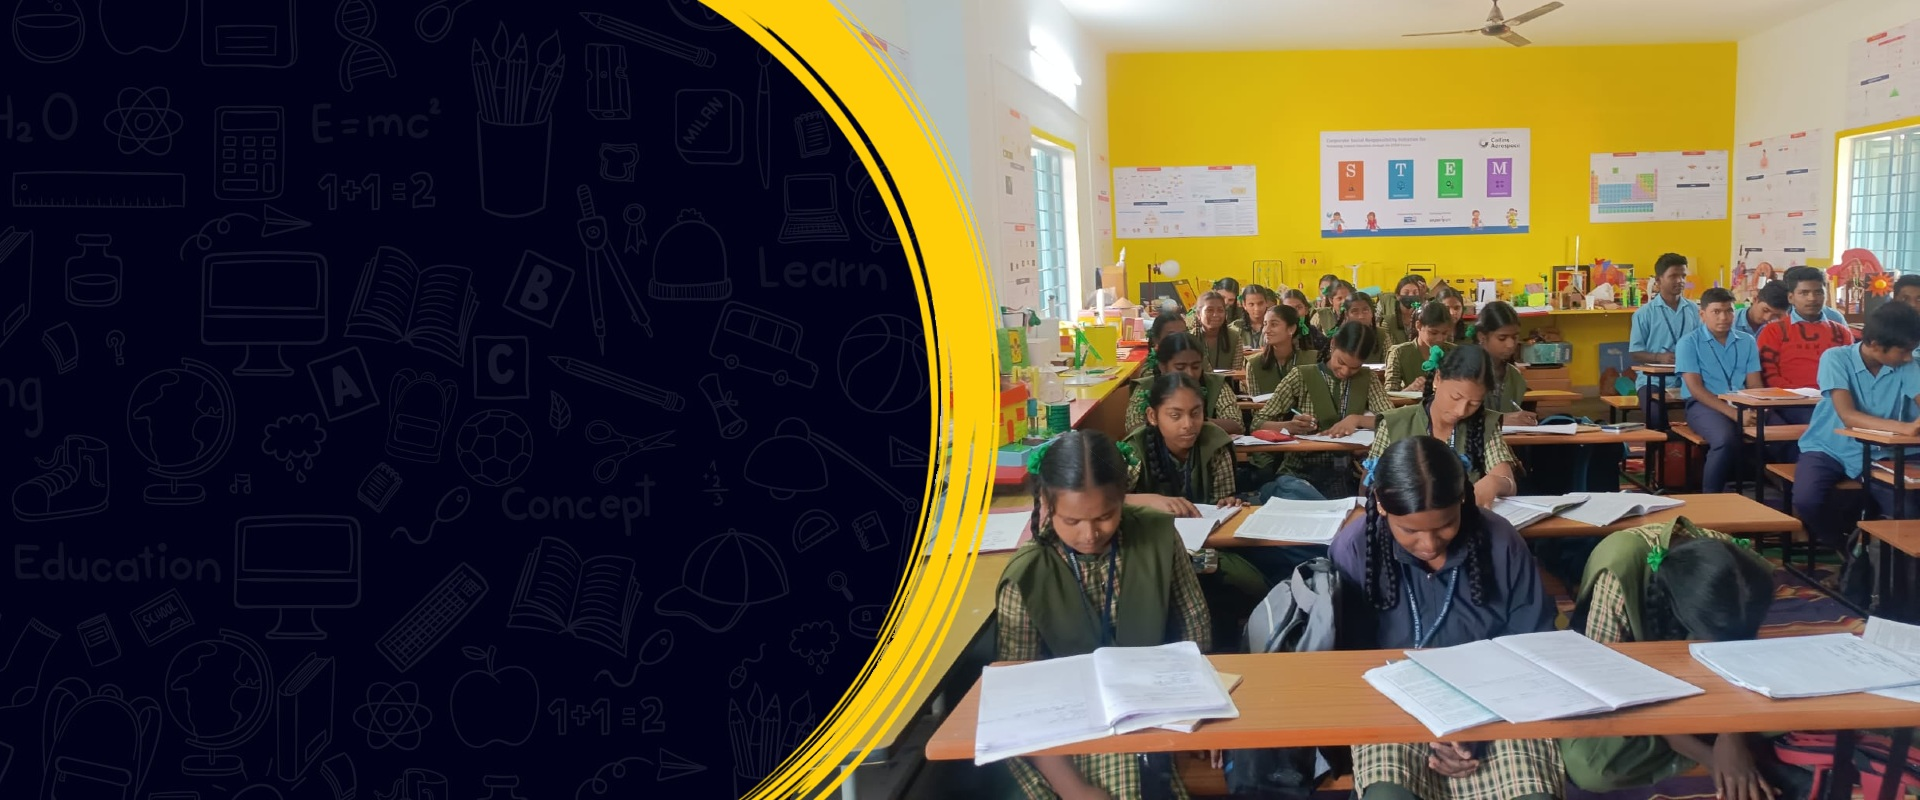
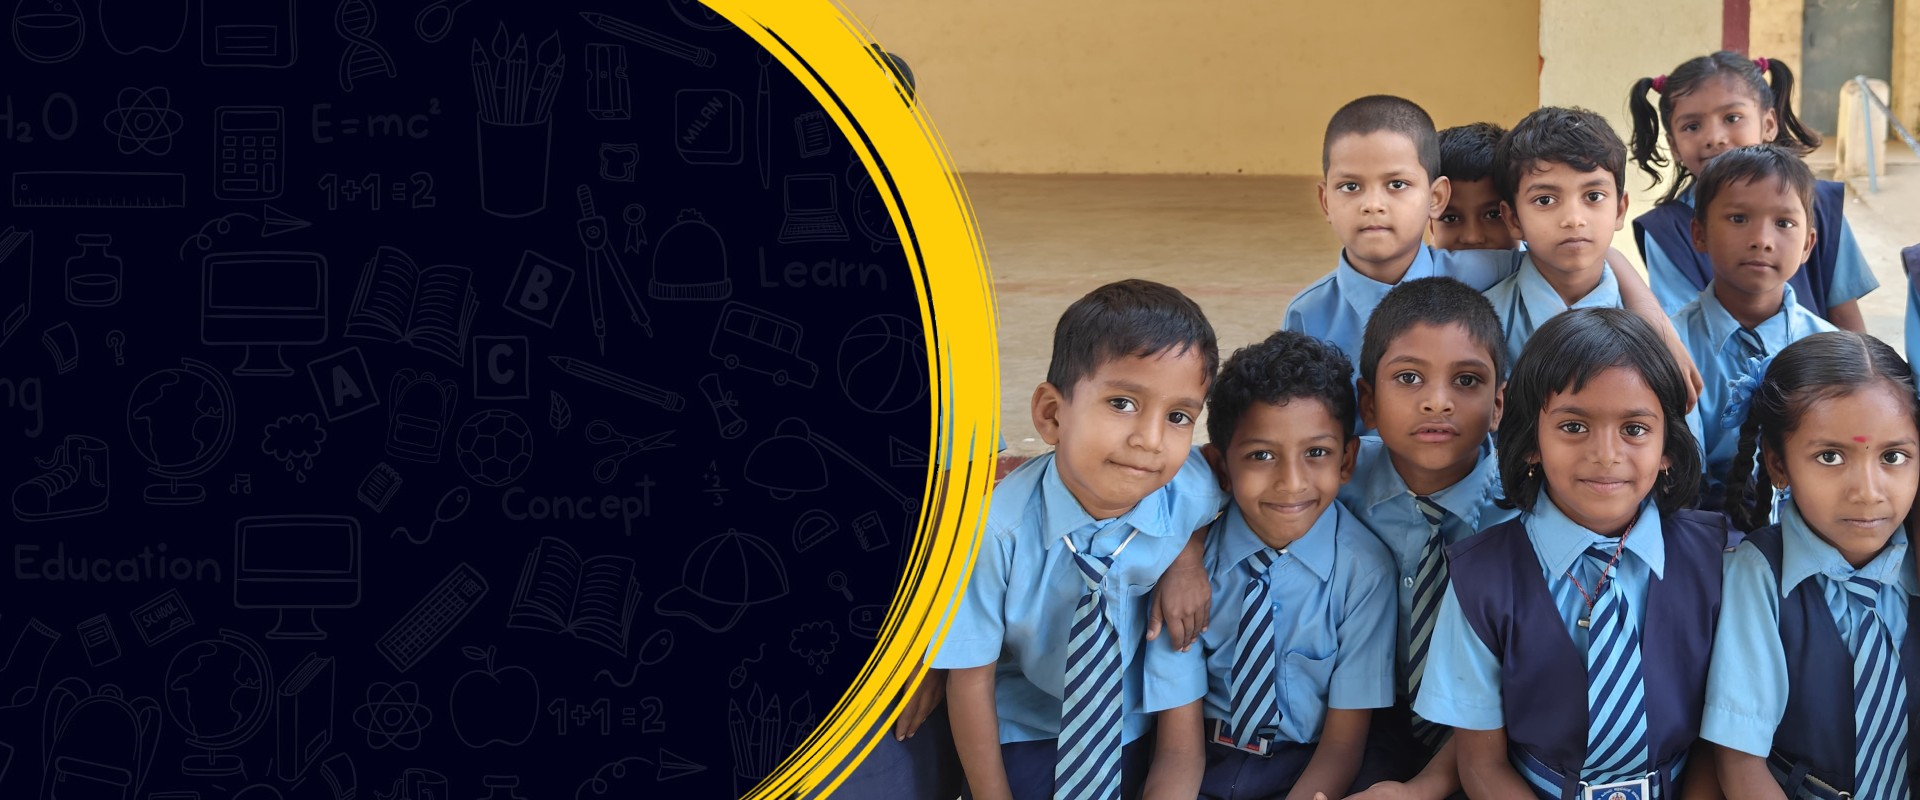
major changes in design

diff --git a/index.html b/index.html
@@ -19,7 +19,7 @@
           <img class="d-block w-100" id="first-slide" alt="First slide">
         <div class="custom-caption">
           <h1>WELCOME TO <br>
-            GOVT, INSTITUTIONS<br> 
+            GOVT. INSTITUTIONS<br> 
             RAJANKUNTE</h1>
           <p>Educating For Tommorow</p>
           <a href="aboutus.html">   
@@ -63,7 +63,6 @@
       <p><span class="offset-md-3"> Goal is to make learning enjoyable and empowering. With caring teachers and a variety of subjects, we want to help students gain knowledge, skills, and good values. Our school is all about getting ready for a successful future!
 
         At our school, we foster a holistic learning environment, promoting creativity and critical thinking. Extracurricular activities, sports, and community engagement enrich students' experiences, instilling a sense of responsibility and teamwork. Our commitment extends beyond academics to character development, nurturing well-rounded individuals poised for success in a dynamic world. We prioritize creating a supportive community where every student can thrive and develop into confident, compassionate, and capable individuals.</span></p>
-      <a href="aboutus.html" class="btn">Learn More</a>
     </div>
     <div class="col-md-6">
       <!-- Image Collage for larger screens -->
@@ -71,13 +70,13 @@
         <!-- Photos and descriptions for Primary School -->
         <!-- Add your photo URLs and descriptions here -->
         <div class="col-md-6 img-fluid photo-card"  >
-          <a href="images/IMG-20240125-WA0129.jpg" data-fancybox="gallery" >
+          <a href="images/pic3.jpg" data-fancybox="gallery" >
             <img  id="photo-card1" alt="Photo 1">
           </a>
           
         </div>
         <div class="col-md-6 img-fluid photo-card" >
-          <a href="images/IMG-20240125-WA0156.jpg" data-fancybox="gallery" >
+          <a href="images/pic4.jpg" data-fancybox="gallery" >
             <img  id="photo-card2" alt="Photo 2">
           </a>
         
@@ -94,18 +93,16 @@
           </a>
         
         </div>
-        
-          <!-- <div class="photo-description">Description 2</div> -->
         </div>
-        <!-- Add more photo cards as needed -->
       </div>
     </div>
+    <a href="aboutus.html" class="btn button">Learn More</a>
       <!-- End Image Collage -->
     </div>
   </div>
 </section>
 
-
+<hr>
 
 <section>
 
@@ -134,20 +131,20 @@
             </div>
             
             <div class="col-md-6" style="margin-bottom: 50px;">
-              <div id="CLASS" class="content" >
-                      <img src="images/facilities/classroom.jpg"  alt="Overview">  
+              <div id="CLASS" class="home_fac" >
+                      <img src="images/pic2.jpg"  alt="Overview">  
                </div>
 
-                <div id="SWIMMING" class="content" style="display: none;">
+                <div id="SWIMMING" class="home_fac" style="display: none;">
                         <img src="images/facilities/swimmingpool.jpg"  alt="Overview">
                         </div>
-                <div id="FOOD" class="content" style="display: none;">
+                <div id="FOOD" class="home_fac" style="display: none;">
                         <img src="images/facilities/food.jpg"  alt="Overview">
                         </div>
-                <div id="BADMINTON" class="content" style="display: none;">
+                <div id="BADMINTON" class="home_fac" style="display: none;">
                         <img src="images/facilities/badminton_court.jpg"  alt="Overview">
                         </div>
-                <div id="PARK" class="content" style="display: none;">
+                <div id="PARK" class="home_fac" style="display: none;">
                         <img src="images/facilities/park.jpg"  alt="Overview">
                         </div>
                         
@@ -206,8 +203,8 @@
   document.querySelectorAll('.btn_grp .btn').forEach(function(button) {
     button.addEventListener('click', function() {
         // Hide all content divs
-        document.querySelectorAll('.content').forEach(function(content) {
-            content.style.display = 'none';
+        document.querySelectorAll('.home_fac').forEach(function(home_fac) {
+            home_fac.style.display = 'none';
         });
 
         // Show the content div that corresponds to the clicked button

diff --git a/css/style.css b/css/style.css
@@ -116,9 +116,11 @@ h2, h3, h4, h5, h6 {
 @media (max-width: 768px){
   .button {
     padding: 0 25px;
+    margin-bottom: 15px;
     font-size: 14px;
     line-height: 35px;
     background-color: #ffc600;
+    margin-top: 15px;
   }
 }
 
@@ -685,6 +687,7 @@ footer li {
 /* contact us page css end  */
 
 /* alumni page css starts  */
+#admission-form,
 #alumni-form {
   display: flex;
   justify-content: space-between;
@@ -692,6 +695,13 @@ footer li {
   font-weight: 500;
 }
 
+#admission-form{
+  flex: 1;
+  margin: 5px;
+  padding: 20px;
+  /* background-color: #f8f8f8; */
+  border-radius: 5px;
+}
 #alumni-form {
   flex: 1;
   margin: 5px;
@@ -700,10 +710,14 @@ footer li {
   border-radius: 5px;
 }
 
+#admission-form textarea,
 #alumni-form textarea {
   height: 40px;
 }
 
+#admission-form input[type="text"],
+#admission-form input[type="email"],
+#admission-form textarea,
 #alumni-form input[type="text"],
 #alumni-form input[type="email"],
 #alumni-form textarea {
@@ -718,7 +732,9 @@ footer li {
 }
 
 #alumni-form input[type="text"]:focus,
+#admission-form input[type="text"]:focus,
 #alumni-form input[type="email"]:focus,
+#admission-form input[type="email"]:focus,
 #alumni-form textarea:focus {
   border: 1px solid #ddd;
   border-radius: 3px;
@@ -735,7 +751,8 @@ footer li {
   font-size: 16px;
 } */
 
-#alumni-form input[type="submit"] {
+#alumni-form input[type="submit"],
+#admission-form input[type="submit"] {
   display: inline-block;
   font-weight: 500;
   text-align: center;
@@ -763,11 +780,9 @@ footer li {
 }
 
 @media (max-width: 600px) {
+  #admission-form,
   #alumni-form{
     flex-direction: column;
-  }
-
-  #alumni-form {
     order: 2;
   }
 }
@@ -785,11 +800,10 @@ footer li {
 }
 
 .photo-card img {
-  width: 100%; /* This will make the image take the full width of its parent element */
-  height: 200px; /* Adjust this value to suit your needs */
+  width: 100%; 
+  height: 200px; 
   object-fit: cover;
   padding: 5px;
-   /* This will crop the image to fit the dimensions without distorting it */
 }
 
 
@@ -799,21 +813,18 @@ footer li {
 }
 
 .photo-card img {
-  transition: transform 0.3s ease-in-out; /* This will animate the transform property */
+  transition: transform 0.3s ease-in-out;
 }
 
 .photo-card img:hover {
-  transform: scale(1.1); /* This will scale the image up to 110% */
+  transform: scale(1.1);
 }
 
 
 .card_academics {
-  /* box-shadow: 0 4px 8px 0 rgba(0,0,0,0.2); */
   transition: 0.3s;
-  /* border-radius: 5px; */
   padding: 20px;
   background-color: #f8f8f8;
- 
 }
 
 .card_academics .btn_grp {
@@ -836,12 +847,11 @@ footer li {
 }
 
 
-.content img {
-  width: 100%; /* This will make the image take the full width of its parent element */
-  height: 314px; /* Adjust this value to suit your needs */
+.home_fac img {
+  width: 100%;
+  height: 314px; 
   object-fit: cover;
   padding: 5px;
-   /* This will crop the image to fit the dimensions without distorting it */
 }
 
 .abt-viewMore .viewMore_btn {

diff --git a/admission.html b/admission.html
@@ -42,12 +42,12 @@
                             <h2>Download Fees Structure</h2>
                             <hr>
                             <p>
-                                <a href="files\HighschoolTT.pdf" download class="btn btn-primary">
+                                <a href="images/fees structure/school.jpg" download class="btn btn-primary">
                                     <i class="fas fa-file-download"></i> School Fees Structure
                                 </a>
                             </p>
                             <p>
-                                <a href="files\pucTT.pdf" download class="btn btn-primary">
+                                <a href="images/fees structure/puc.png" download class="btn btn-primary">
                                     <i class="fas fa-file-download"></i> PU College Fees Structure
                                 </a>
                             </p>
@@ -56,9 +56,9 @@
                     <div id="ADMISSION" class="content" style="display: none;">
                         <h2 class="card-body_title">ADMISSION ENQUIRY</h2>
                         <div class="container">
-                            <div id="alumni-form">
-                              <form id="alumniForm" class="row g-3" onsubmit="submitForm(event, 'alumniForm')">
-                                <input type="hidden" name="formId" value="alumniForm">
+                            <div id="admission-form">
+                              <form id="admissionForm" class="row g-3" onsubmit="submitForm(event, 'admissionForm')">
+                                <input type="hidden" name="formId" value="admissionForm">
                                 <div class="col-md-6">
                                   <input type="text" id="name" name="name" class="form-control" placeholder="Enter Name *" required>
                                 </div>

diff --git a/contact.html b/contact.html
@@ -25,7 +25,7 @@
         <input type="submit" value="Submit">
       </form>
       
-      <div id="contactSubmissionMessage" style="display: none; color: green;">Contact Form submitted successfully!</div>
+      <div id="contactSubmissionMessage" style="display: none; margin-top: 4 5px; color: green;"><i>Contact Form submitted successfully!</i></div>
 
     </div>
   </div>
@@ -64,5 +64,30 @@
   <!-- main.jss -->
   <script src="main.js"></script>
   <script src="https://cdn.jsdelivr.net/npm/@popperjs/core@2.5.4/dist/umd/popper.min.js"></script>
+
+  <!-- extra JS  -->
+<script>
+  document.getElementById('contactForm').addEventListener('submit', function(event) {
+    event.preventDefault(); // prevent the form from submitting normally
+
+    // submit the form using Fetch API
+    fetch(this.action, {
+        method: this.method,
+        body: new FormData(this),
+    })
+    .then(response => response.json()) // parse the JSON response from the server
+    .then(data => {
+        if (data.result === 'success') {
+            // if the server returned a success result, display the custom message
+            document.getElementById('contactSubmissionMessage').style.display = 'block';
+        } else {
+            console.error('Form submission failed:', data);
+        }
+    })
+    .catch(error => {
+        console.error('Form submission failed:', error);
+    });
+});
+</script>
 </body>
 </html>

diff --git a/navbar.html b/navbar.html
@@ -32,7 +32,7 @@
 
 
   <!-- Main Nav -->
-  <nav class="navbar navbar-expand-lg navbar-light bg-light main-navbar" id="main-navbar">
+  <nav class="navbar navbar-expand-md navbar-light bg-light main-navbar" id="main-navbar">
     <button class="navbar-toggler" type="button" data-toggle="collapse" data-target="#navbarNav" aria-controls="navbarNav" aria-expanded="false" aria-label="Toggle navigation">
       <span class="navbar-toggler-icon"></span>
     </button>
@@ -52,6 +52,9 @@
             <a class="dropdown-item" href="aboutus.html#chairperson" onclick="simulateButtonClick('chairperson')">About Chairperson</a>
             <a class="dropdown-item" href="aboutus.html#principles" onclick="simulateButtonClick('principles')">Principles</a>
           </div>
+        </li>
+        <li class="nav-item active">
+          <a class="nav-link" href="facilities.html">Facilities</a>
         </li>
         <li class="nav-item active">
           <a class="nav-link" href="admission.html">Admission</a>

diff --git a/js/common.js b/js/common.js
@@ -15,8 +15,8 @@ setImageSource('fourth-slide', 'images/slide show/slide4.jpg')
 // Home Page images
 
 
-setImageSource('photo-card1','images/IMG-20240125-WA0129.jpg')
-setImageSource('photo-card2','images/IMG-20240125-WA0156.jpg')
+setImageSource('photo-card1','images/pic3.jpg')
+setImageSource('photo-card2','images/pic4.jpg')
 setImageSource('photo-card3','images/IMG-20240125-WA0164.jpg')
 setImageSource('photo-card4','images/IMG-20240125-WA0119.jpg')
 
@@ -56,6 +56,3 @@ setImageSource('badminton_court','images/facilities/badminton_court.jpg')
 setImageSource('food','images/facilities/food.jpg')
 setImageSource('auditorium','images/facilities/auditorium.jpg')
 setImageSource('park','images/facilities/park.jpg')
-
-
-

diff --git a/css/about.css b/css/about.css
@@ -105,6 +105,9 @@
     transform: translate(-50%, -50%);
     text-align: center;
 }
+.chairpersonImage {
+    z-index: 10; /* Adjust this value as needed */
+  }
 
 /* Styling for the member info */
 .memberInfo {

diff --git a/css/facilities.css b/css/facilities.css
@@ -5,7 +5,6 @@
     transition: opacity 0.3s ease-in-out;
     text-align: center;
 }
-
 /* Styling for the button */
 .btn {
     color: #2e3192;
